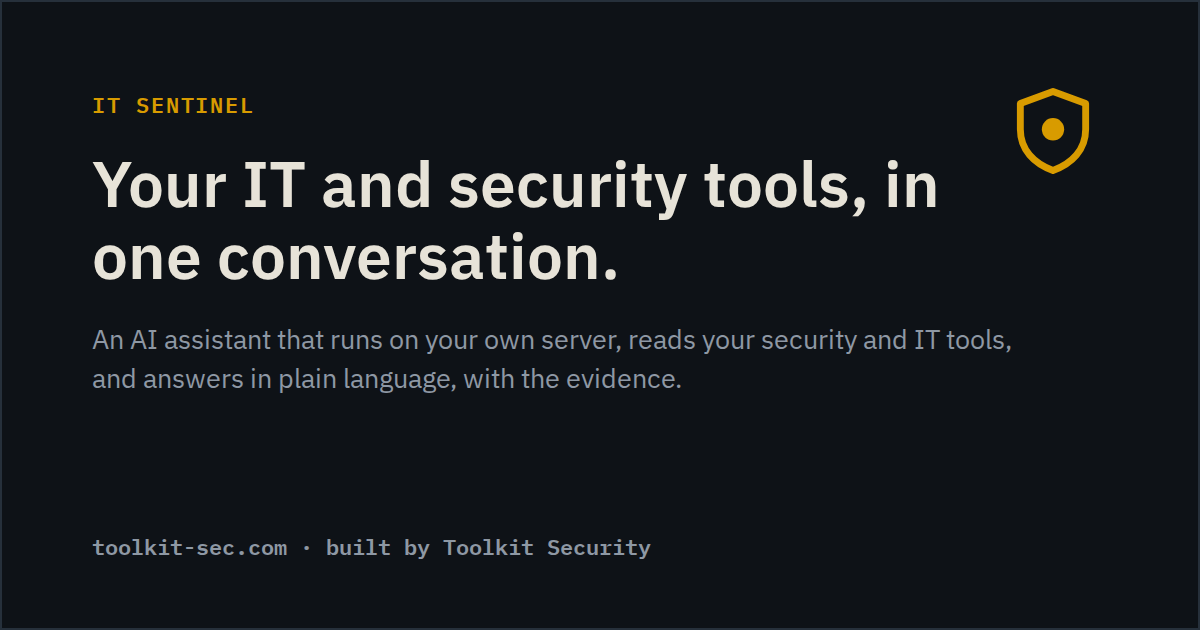
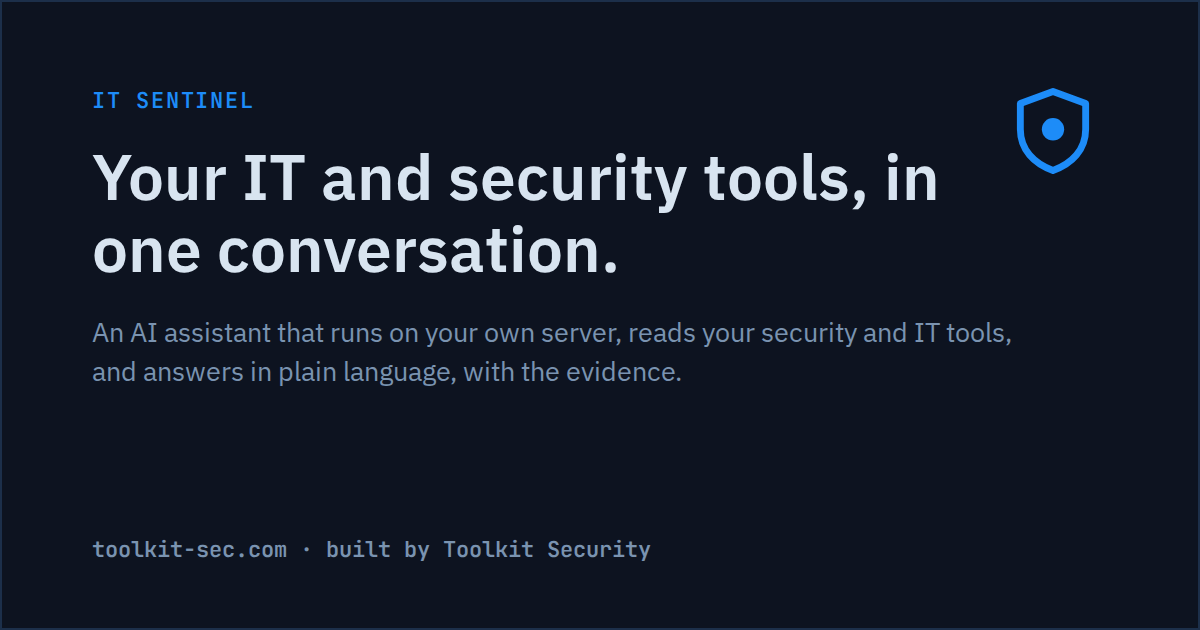
Portal theme (slate + electric blue, JetBrains Mono, glow), Gemini review: form/body size limits, privacy notice (Amendment 13, voluntary, KV, privacy@), blue link preview

diff --git a/assets/css/site.css b/assets/css/site.css
@@ -2,24 +2,29 @@
    All colours, fonts and radii are the tokens in :root. Change the theme there only. */
 
 :root {
-  --bg:          #0E1217;  /* page background */
-  --panel:       #151B23;  /* cards, header, form fields */
-  --panel-hot:   #1A1A12;  /* highlighted card */
-  --line:        #26303B;  /* borders, dividers */
-  --line-strong: #3A4654;  /* hover borders */
-  --text:        #E7E3D8;  /* body text */
-  --muted:       #8E98A4;  /* secondary text */
-  --accent:      #D89B00;  /* buttons, links, key labels (sparingly) */
-  --accent-ink:  #0E1217;  /* text on an accent background */
-  --accent-soft: rgba(216, 155, 0, .12);
-  --question:    #D89B00;  /* example questions, set in mono */
-  --ok:          #4FA37A;
-  --risk:        #D9673F;
+  --bg:            #0D1320;  /* page background */
+  --panel:         #121B2E;  /* cards, header, form fields */
+  --panel-alt:     #172238;
+  --panel-hot:     #13243E;  /* highlighted card */
+  --line:          #1C2F4A;  /* borders, dividers */
+  --line-strong:   #243D5E;  /* hover borders */
+  --accent-border: #1A56A5;
+  --text:          #D8E4F0;  /* body text */
+  --muted:         #7A93B0;  /* secondary text */
+  --question:      #82B4FB;  /* example questions, set in mono */
+  --accent:        #1D8CF8;  /* buttons, links, key labels (sparingly) */
+  --accent-ink:    #0D1320;  /* text on an accent background: keep dark, white fails AA */
+  --accent-hover:  #1565C0;  /* borders/lines only: dark text on it fails AA */
+  --accent-soft:   rgba(29, 140, 248, .12);
+  --glow:          rgba(29, 140, 248, .18);
+  --glow-soft:     rgba(29, 140, 248, .07);
+  --ok:            #00E676;
+  --risk:          #EF5350;
 
   --font-sans: 'IBM Plex Sans', system-ui, -apple-system, 'Segoe UI', Arial, sans-serif;
-  --font-mono: 'IBM Plex Mono', ui-monospace, 'Cascadia Code', Consolas, monospace;
-  --radius:    12px;
-  --radius-sm: 8px;
+  --font-mono: 'JetBrains Mono', ui-monospace, 'Cascadia Code', Menlo, Consolas, monospace;
+  --radius:    10px;
+  --radius-sm: 6px;
   --measure:   68ch;
   --wide:      1200px;
 }
@@ -75,7 +80,7 @@ strong { color: var(--text); font-weight: 600; }
   font: 600 16px/1 var(--font-sans); padding: 14px 22px; border-radius: var(--radius-sm);
   border: 0; cursor: pointer; text-decoration: none;
 }
-.btn:hover { filter: brightness(1.08); text-decoration: none; }
+.btn:hover { filter: brightness(1.08); text-decoration: none; box-shadow: 0 0 0 1px var(--glow), 0 0 22px var(--glow); }
 .btn-small { padding: 10px 16px; font-size: 15px; }
 .btn[disabled] { opacity: .6; cursor: progress; }
 
@@ -107,7 +112,7 @@ p { margin: 0 0 16px; }
 /* ── Cards ──────────────────────────────────────────────── */
 .cards { display: grid; gap: 20px; grid-template-columns: repeat(auto-fit, minmax(250px, 1fr)); margin-top: 32px; }
 .card { background: var(--panel); border: 1px solid var(--line); border-radius: var(--radius); padding: 24px; }
-.card.hot { background: var(--panel-hot); border-color: var(--accent); }
+.card.hot { background: var(--panel-hot); border-color: var(--accent); box-shadow: 0 0 0 1px var(--glow), 0 0 22px var(--glow-soft); }
 .card h3 { margin-bottom: 10px; }
 .card p, .card li { color: var(--muted); font-size: 16px; }
 .card p:last-child { margin-bottom: 0; }
@@ -174,7 +179,7 @@ input[type=text], input[type=email], textarea {
   width: 100%; background: var(--bg); color: var(--text); border: 1px solid var(--line);
   border-radius: var(--radius-sm); padding: 12px 14px; font: 400 16px/1.5 var(--font-sans);
 }
-input:focus, textarea:focus { border-color: var(--accent); outline: none; box-shadow: 0 0 0 3px var(--accent-soft); }
+input:focus, textarea:focus { border-color: var(--accent); outline: none; box-shadow: 0 0 0 3px var(--accent-soft), 0 0 18px var(--glow); }
 textarea { min-height: 110px; resize: vertical; }
 .consent { display: flex; gap: 12px; align-items: flex-start; font-weight: 400; color: var(--muted); }
 .consent input { margin-top: 5px; width: 18px; height: 18px; accent-color: var(--accent); flex: none; }

diff --git a/index.html b/index.html
@@ -6,7 +6,7 @@
   <title>IT Sentinel, built by Toolkit Security</title>
   <meta name="description" content="IT Sentinel is an AI assistant for IT and security teams that runs on your own server, reads your security and IT tools, and answers in plain language, with the evidence.">
   <link rel="canonical" href="https://toolkit-sec.com/">
-  <meta name="theme-color" content="#0E1217">
+  <meta name="theme-color" content="#0D1320">
   <meta property="og:type" content="website">
   <meta property="og:site_name" content="IT Sentinel">
   <meta property="og:title" content="IT Sentinel: your IT and security tools, in one conversation">
@@ -17,7 +17,7 @@
   <link rel="icon" href="/assets/favicon.svg" type="image/svg+xml">
   <link rel="preconnect" href="https://fonts.googleapis.com">
   <link rel="preconnect" href="https://fonts.gstatic.com" crossorigin>
-  <link rel="stylesheet" href="https://fonts.googleapis.com/css2?family=IBM+Plex+Mono:wght@400;500;600&family=IBM+Plex+Sans:wght@400;600;700&display=swap">
+  <link rel="stylesheet" href="https://fonts.googleapis.com/css2?family=JetBrains+Mono:wght@400;500;600&family=IBM+Plex+Sans:wght@400;600;700&display=swap">
   <link rel="stylesheet" href="/assets/css/site.css">
   <script src="https://challenges.cloudflare.com/turnstile/v0/api.js" async defer></script>
   <script src="/assets/js/site.js" defer></script>
@@ -318,21 +318,21 @@
         <form id="contact-form" action="/api/contact" method="post" novalidate>
           <div class="row2">
             <div><label for="f-name">Name</label>
-              <input id="f-name" name="name" type="text" autocomplete="name" maxlength="120" required></div>
+              <input id="f-name" name="name" type="text" autocomplete="name" maxlength="100" required></div>
             <div><label for="f-email">Work email</label>
-              <input id="f-email" name="email" type="email" autocomplete="email" maxlength="200" required></div>
+              <input id="f-email" name="email" type="email" autocomplete="email" maxlength="254" required></div>
           </div>
           <div class="row2">
             <div><label for="f-company">Company <span class="opt">(optional)</span></label>
-              <input id="f-company" name="company" type="text" autocomplete="organization" maxlength="160"></div>
+              <input id="f-company" name="company" type="text" autocomplete="organization" maxlength="100"></div>
             <div><label for="f-role">Role <span class="opt">(optional)</span></label>
-              <input id="f-role" name="role" type="text" autocomplete="organization-title" maxlength="120"></div>
+              <input id="f-role" name="role" type="text" autocomplete="organization-title" maxlength="100"></div>
           </div>
           <div><label for="f-tools">Which tools do you run? <span class="opt">(optional)</span></label>
-            <textarea id="f-tools" name="tools" maxlength="1000" rows="3"
+            <textarea id="f-tools" name="tools" maxlength="500" rows="3"
                       placeholder="e.g. a SIEM, an EDR, the firewall, Active Directory, Microsoft 365, ticketing"></textarea></div>
           <div><label for="f-message">Message</label>
-            <textarea id="f-message" name="message" maxlength="4000" rows="5" required></textarea></div>
+            <textarea id="f-message" name="message" maxlength="3000" rows="5" required></textarea></div>
           <label class="consent"><input type="checkbox" name="consent" value="on" required>
             <span>I agree that my details are used to reply to this message (<a href="/privacy">privacy notice</a>).</span></label>
           <div class="cf-turnstile" data-sitekey="REPLACE_WITH_TURNSTILE_SITE_KEY" data-theme="dark"></div>

diff --git a/privacy.html b/privacy.html
@@ -6,11 +6,11 @@
   <title>Privacy notice · IT Sentinel, built by Toolkit Security</title>
   <meta name="description" content="How Toolkit Security handles the details you send through the IT Sentinel website's contact form.">
   <link rel="canonical" href="https://toolkit-sec.com/privacy">
-  <meta name="theme-color" content="#0E1217">
+  <meta name="theme-color" content="#0D1320">
   <link rel="icon" href="/assets/favicon.svg" type="image/svg+xml">
   <link rel="preconnect" href="https://fonts.googleapis.com">
   <link rel="preconnect" href="https://fonts.gstatic.com" crossorigin>
-  <link rel="stylesheet" href="https://fonts.googleapis.com/css2?family=IBM+Plex+Mono:wght@400;500;600&family=IBM+Plex+Sans:wght@400;600;700&display=swap">
+  <link rel="stylesheet" href="https://fonts.googleapis.com/css2?family=JetBrains+Mono:wght@400;500;600&family=IBM+Plex+Sans:wght@400;600;700&display=swap">
   <link rel="stylesheet" href="/assets/css/site.css">
   <script src="/assets/js/site.js" defer></script>
 </head>
@@ -31,7 +31,7 @@
   <p>This notice covers the <strong>toolkit-sec.com website</strong> and its contact form. Toolkit
     Security operates in Canada and Israel, and handles personal information under Canada's Personal
     Information Protection and Electronic Documents Act (PIPEDA) and Israel's Protection of Privacy
-    Law, 5741-1981, and its regulations.</p>
+    Law, 5741-1981, as amended (including Amendment 13), and its regulations.</p>
 
   <h2>The IT Sentinel product</h2>
   <p>IT Sentinel is installed on a customer's own premises. Everything it collects, stores and produces
@@ -53,14 +53,15 @@
     information.</p>
 
   <h2>Why we collect it</h2>
-  <p>Only to reply to your message and to continue the conversation you started. You give your consent
+  <p>Giving us your details is voluntary: you're under no legal obligation to, and without them we
+    simply can't reply. We use them only to reply to your message and to continue the conversation you started. You give your consent
     with the checkbox on the form, and you can withdraw it at any time (see below). We don't add you to
     a mailing list.</p>
 
   <h2>Where it's kept, and for how long</h2>
   <ul>
-    <li>Form submissions are stored in our Cloudflare account and <strong>deleted automatically after
-      90 days</strong>.</li>
+    <li>Form submissions are stored in Cloudflare Workers KV, in our Cloudflare account, and
+      <strong>deleted automatically after 90 days</strong>. Cloudflare processes them on our behalf.</li>
     <li>A copy is emailed to our own mailbox through an email delivery service. We keep that
       correspondence for <strong>up to 12 months</strong> after our last exchange with you, then delete
       it, unless you become a customer.</li>
@@ -77,7 +78,7 @@
 
   <h2>Contact</h2>
   <p>Privacy questions and requests:
-    <span data-mail-user="hello" data-mail-domain="toolkit-sec.com">hello [at] toolkit-sec.com</span>,
+    <span data-mail-user="privacy" data-mail-domain="toolkit-sec.com">privacy [at] toolkit-sec.com</span>,
     or the <a href="/#contact">contact form</a>.</p>
 
   <h2>Changes</h2>

diff --git a/functions/api/contact.js b/functions/api/contact.js
@@ -11,7 +11,8 @@
 // fields: name, email, company, role, tools, message, consent, cf-turnstile-response.
 // A JavaScript fetch() with the same fields also works; the response is JSON either way.
 
-const LIMITS = { name: 120, email: 200, company: 160, role: 120, tools: 1000, message: 4000 };
+const LIMITS = { name: 100, email: 254, company: 100, role: 100, tools: 500, message: 3000 };
+const MAX_BODY = 32 * 1024;   // bytes; the largest legitimate form is well under this
 const EMAIL_RE = /^[^\s@]+@[^\s@]+\.[^\s@]{2,}$/;
 
 function json(body, status = 200) {
@@ -39,9 +40,15 @@ export async function onRequestPost({ request, env }) {
   if (!env.TURNSTILE_SECRET || !env.CONTACT_KV) {
     return json({ ok: false, error: "The contact form is not configured yet." }, 503);
   }
+  // Refuse oversized bodies before parsing them (Content-Length first, then the real size).
+  if (Number(request.headers.get("content-length") || 0) > MAX_BODY) {
+    return json({ ok: false, error: "That message is too large." }, 413);
+  }
   let form;
   try {
-    form = await request.formData();
+    const raw = await request.arrayBuffer();
+    if (raw.byteLength > MAX_BODY) return json({ ok: false, error: "That message is too large." }, 413);
+    form = await new Response(raw, { headers: { "content-type": request.headers.get("content-type") || "" } }).formData();
   } catch {
     return json({ ok: false, error: "Send the form as form data." }, 400);
   }

diff --git a/404.html b/404.html
@@ -5,9 +5,9 @@
   <meta name="viewport" content="width=device-width, initial-scale=1">
   <title>Page not found · IT Sentinel</title>
   <meta name="robots" content="noindex">
-  <meta name="theme-color" content="#0E1217">
+  <meta name="theme-color" content="#0D1320">
   <link rel="icon" href="/assets/favicon.svg" type="image/svg+xml">
-  <link rel="stylesheet" href="https://fonts.googleapis.com/css2?family=IBM+Plex+Mono:wght@400;500;600&family=IBM+Plex+Sans:wght@400;600;700&display=swap">
+  <link rel="stylesheet" href="https://fonts.googleapis.com/css2?family=JetBrains+Mono:wght@400;500;600&family=IBM+Plex+Sans:wght@400;600;700&display=swap">
   <link rel="stylesheet" href="/assets/css/site.css">
 </head>
 <body>
